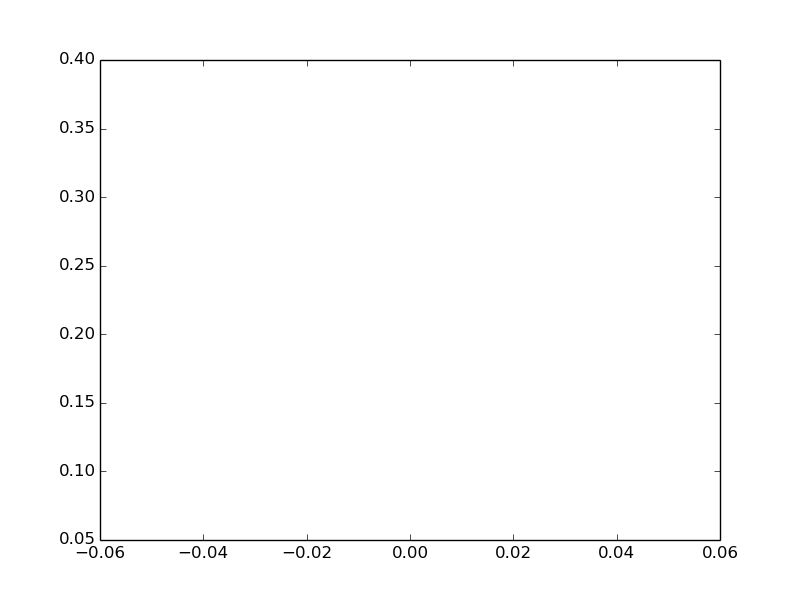
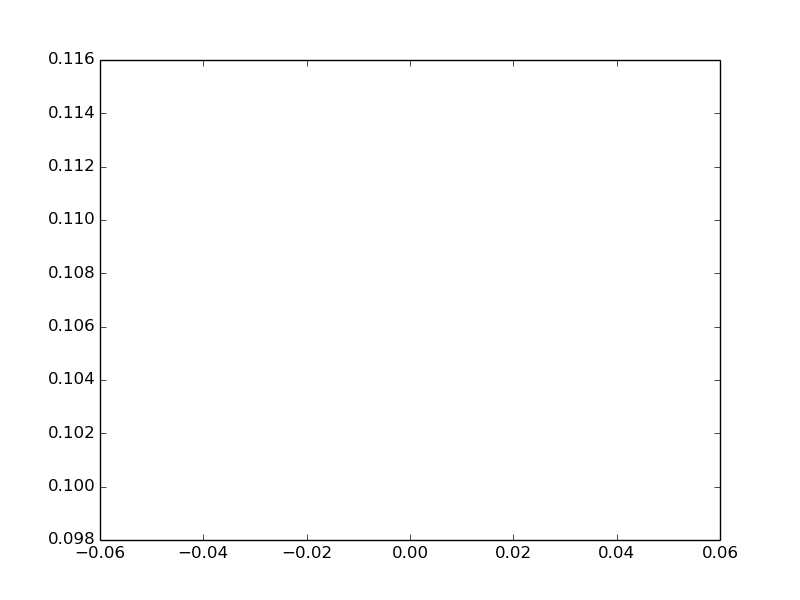
figures corrected

diff --git a/dA.py b/dA.py
@@ -425,8 +425,9 @@ def test_dA(learning_rate=0.3, training_epochs=50,hidden_units=50,
 	cost = test_da_real(idx)
         if not test_set_y[idx] ==0 and anom[int(test_set_y[idx])]:
         	plt.figure(idx)
-        	plt.plot(cost[0],'r')
-                plt.plot(cost[1],'b')
+		print cost
+        	plt.plot(cost[0][0][1],'r')
+                plt.plot(cost[1][0][1],'b')
                 plt.savefig('fig_%d_recon.png'%(test_set_y[idx]))
                 anom[int(test_set_y[idx])] = False
 	#if cost>0.2 and not test_set_y[idx]==0:
